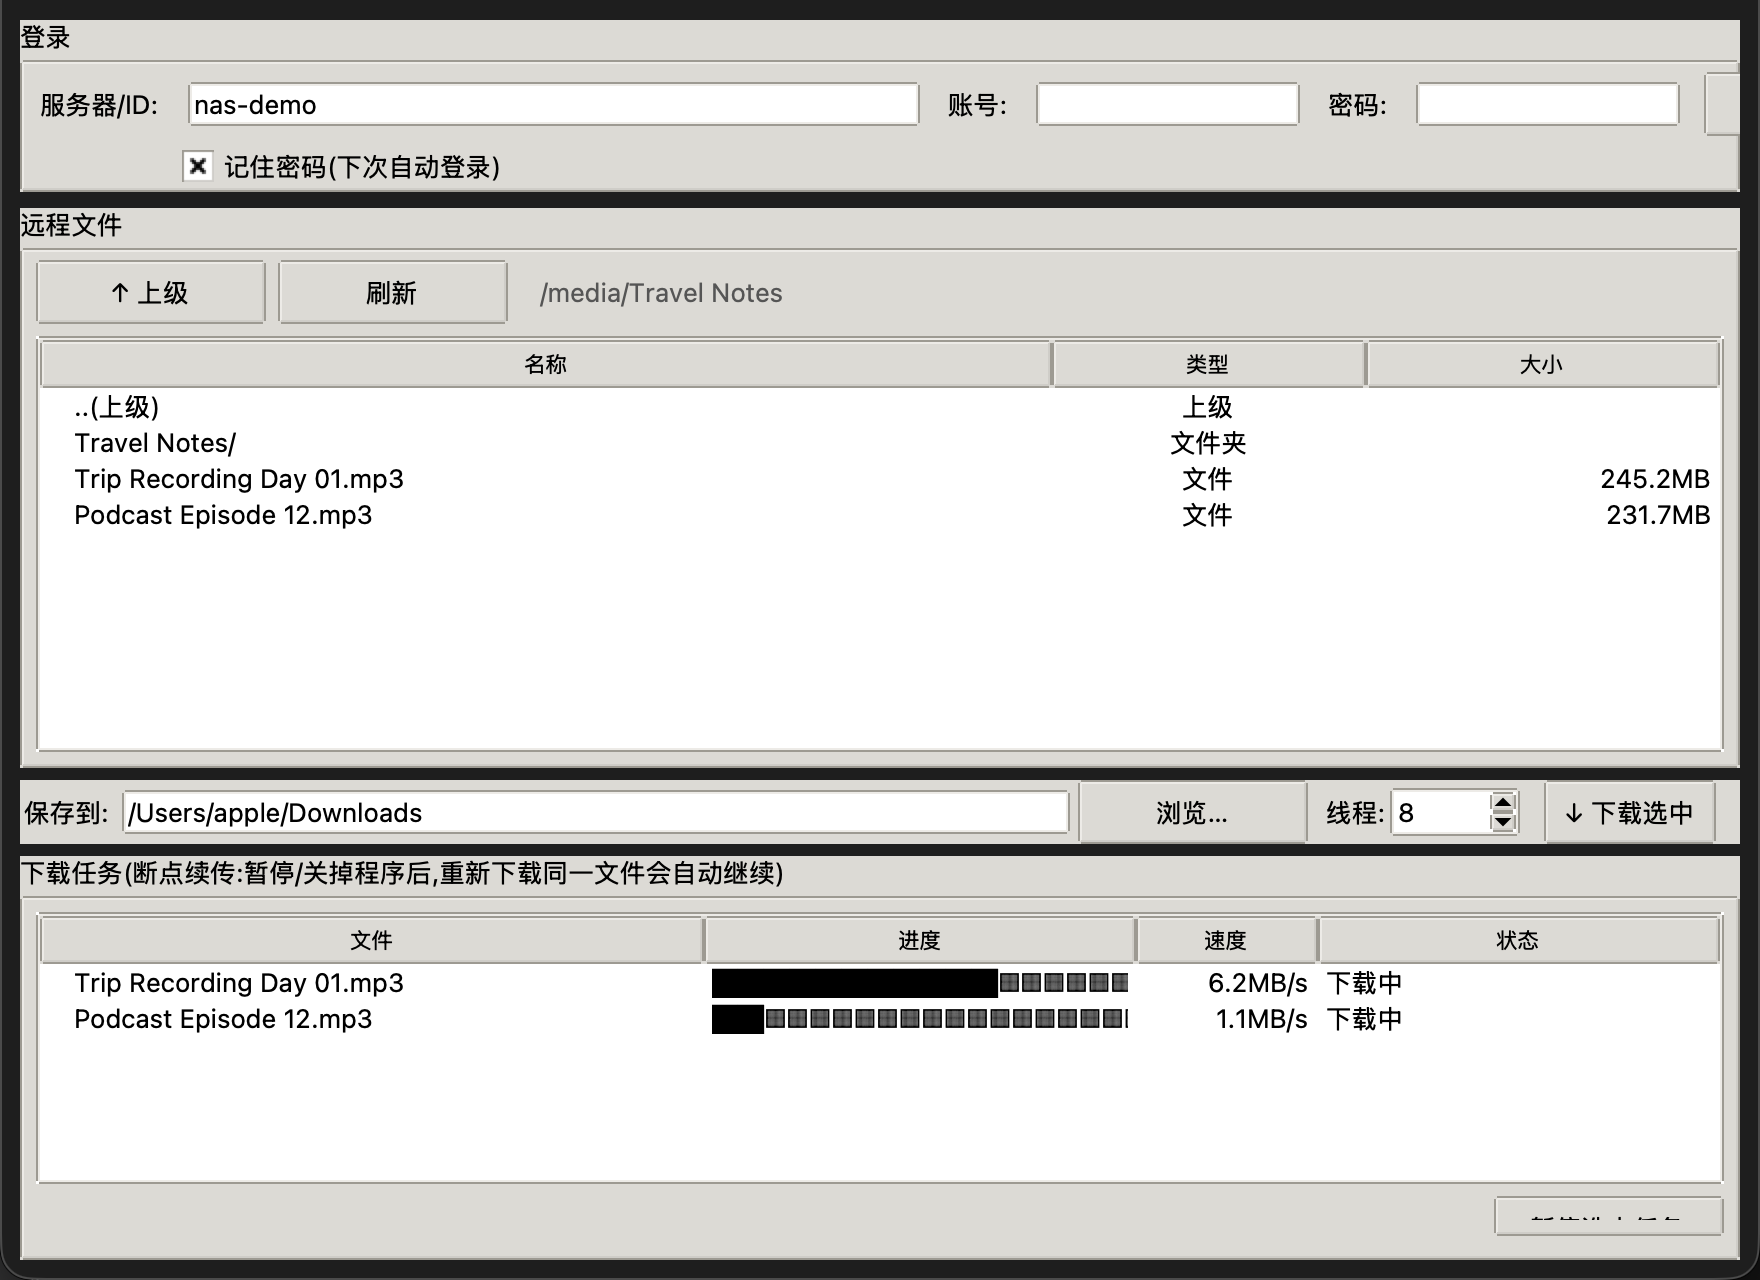
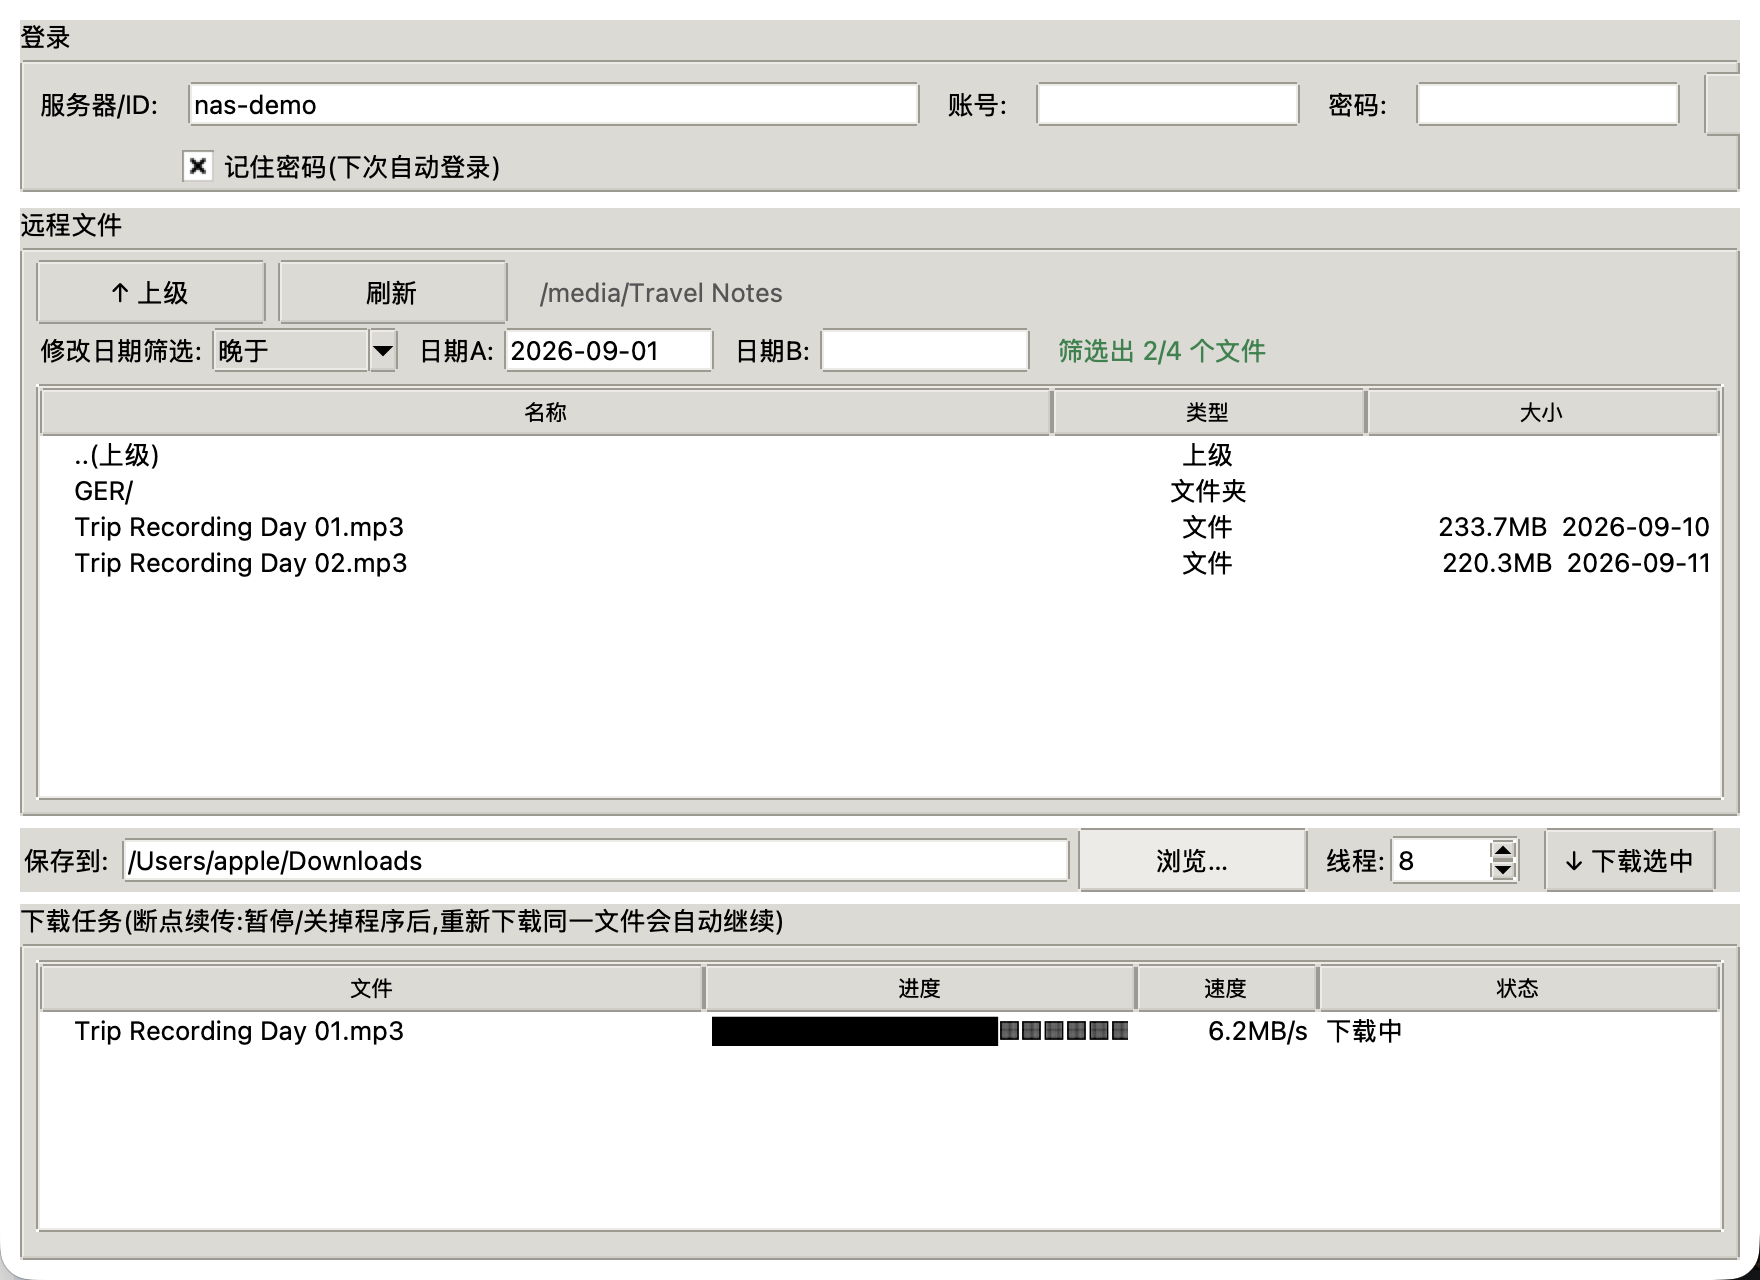
feat: 文件浏览支持修改日期筛选(早于/晚于/介于)

Changed region(s): [[0.0, 0.0, 1.0, 1.0]]

diff --git a/syn_dl_gui.py b/syn_dl_gui.py
@@ -11,6 +11,7 @@ import queue
 import threading
 import time
 import tkinter as tk
+from datetime import date
 from pathlib import Path
 from tkinter import ttk, filedialog, messagebox, simpledialog
 
@@ -160,6 +161,29 @@ class App:
         self.btn_refresh.pack(side="left", padx=6)
         self.lbl_path = ttk.Label(bar, text="(登录后显示共享文件夹)", foreground="#555")
         self.lbl_path.pack(side="left", padx=8)
+
+        # —— 日期筛选行 ——
+        fbar = ttk.Frame(browse)
+        fbar.pack(fill="x", padx=6, pady=(2, 0))
+        ttk.Label(fbar, text="修改日期筛选:").pack(side="left")
+        self.var_fmode = tk.StringVar(value="全部")
+        self.cmb_fmode = ttk.Combobox(
+            fbar, textvariable=self.var_fmode, state="readonly", width=8,
+            values=("全部", "早于", "晚于", "介于"))
+        self.cmb_fmode.pack(side="left", padx=(2, 8))
+        ttk.Label(fbar, text="日期A:").pack(side="left")
+        self.var_fdate_a = tk.StringVar()
+        e_a = ttk.Entry(fbar, textvariable=self.var_fdate_a, width=11)
+        e_a.pack(side="left", padx=(2, 8))
+        ttk.Label(fbar, text="日期B:").pack(side="left")
+        self.var_fdate_b = tk.StringVar()
+        e_b = ttk.Entry(fbar, textvariable=self.var_fdate_b, width=11)
+        e_b.pack(side="left", padx=2)
+        self.lbl_fhint = ttk.Label(fbar, text="格式 YYYY-MM-DD", foreground="#888")
+        self.lbl_fhint.pack(side="left", padx=10)
+        self.cmb_fmode.bind("<<ComboboxSelected>>", lambda _e: self._render_tree())
+        for ent in (e_a, e_b):
+            ent.bind("<KeyRelease>", lambda _e: self._render_tree())
 
         cols = ("type", "size")
         self.tree = ttk.Treeview(browse, columns=cols, selectmode="extended")
@@ -406,15 +430,81 @@ class App:
         self.cwd = path
         self.entries = entries
         self.lbl_path.config(text=path)
+        self._render_tree()
+
+    # ---------------------------------------------------------------- 日期筛选与渲染
+    def _render_tree(self):
+        """按当前筛选条件把 self.entries 渲染到浏览表(iid → entry 映射)。"""
         self.tree.delete(*self.tree.get_children())
-        if path != "/":
+        self._row_entry = {}
+        if getattr(self, "cwd", "/") != "/":
             self.tree.insert("", "end", iid="up", text="..(上级)", values=("上级", ""))
-        for e in entries:
+
+        mode = self.var_fmode.get()
+        start = end = None
+        hint = ""
+        if mode != "全部":
+            start = self._parse_date(self.var_fdate_a.get())
+            end = self._parse_date(self.var_fdate_b.get()) if mode == "介于" else None
+            if mode == "介于":
+                if start is None or end is None:
+                    hint = "请输入有效的日期A和日期B"
+                elif start > end:
+                    hint = "日期A晚于日期B,已自动交换"
+                    start, end = end, start
+            elif start is None:
+                hint = "请输入有效的日期A"
+        if hint.startswith("请输入"):
+            mode = "全部"   # 日期无效时不做筛选,仅显示提示
+
+        shown = total = 0
+        for e in self.entries:
+            keep = True
+            if not e["isdir"]:
+                total += 1
+                keep = self._match_date(e.get("mtime"), mode, start, end)
+                if keep:
+                    shown += 1
+            if not keep:
+                continue
             name = e["name"] + ("/" if e["isdir"] else "")
             size = human(e["size"]) if e.get("size") else ""
-            self.tree.insert("", "end",
-                             values=("文件夹" if e["isdir"] else "文件", size),
-                             text=name, tags=("dir",) if e["isdir"] else ("file",))
+            mtime = date.fromtimestamp(e["mtime"]).isoformat() if e.get("mtime") else ""
+            iid = self.tree.insert(
+                "", "end", values=("文件夹" if e["isdir"] else "文件",
+                                   f"{size}  {mtime}" if mtime else size),
+                text=name)
+            self._row_entry[iid] = e
+
+        if hint:
+            color = "#c0392b" if hint.startswith("请输入") else "#888"
+            self.lbl_fhint.config(text=hint, foreground=color)
+        elif mode == "全部":
+            self.lbl_fhint.config(text="格式 YYYY-MM-DD", foreground="#888")
+        else:
+            self.lbl_fhint.config(text=f"筛选出 {shown}/{total} 个文件",
+                                  foreground="#1e8449")
+
+    @staticmethod
+    def _parse_date(s):
+        try:
+            return date.fromisoformat(s.strip())
+        except Exception:
+            return None
+
+    @staticmethod
+    def _match_date(mtime, mode, start, end):
+        if mode == "全部" or not mtime:
+            return True
+        try:
+            d = date.fromtimestamp(mtime)
+        except Exception:
+            return True
+        if mode == "早于":
+            return d < start
+        if mode == "晚于":
+            return d > start
+        return start <= d <= end   # 介于(含两端)
 
     def refresh_dir(self):
         self.load_dir(getattr(self, "cwd", "/"))
@@ -433,7 +523,9 @@ class App:
         if iid == "up":
             self.go_up()
             return
-        entry = self.entries[self.tree.index(iid) - (1 if self.cwd != "/" else 0)]
+        entry = getattr(self, "_row_entry", {}).get(iid)
+        if not entry:
+            return
         if entry["isdir"]:
             self.load_dir(entry["path"])
         else:
@@ -451,8 +543,8 @@ class App:
         for iid in sel:
             if iid == "up":
                 continue
-            entry = self.entries[self.tree.index(iid) - (1 if self.cwd != "/" else 0)]
-            if not entry["isdir"]:
+            entry = getattr(self, "_row_entry", {}).get(iid)
+            if entry and not entry["isdir"]:
                 paths.append(entry)
         if not paths:
             messagebox.showinfo("提示", "请先选中要下载的文件(可按住 Ctrl/Cmd 多选)")

diff --git a/test_gui.py b/test_gui.py
@@ -80,8 +80,58 @@ def main():
         assert pump(root, 10, lambda: getattr(app, "cwd", "") == "/media"), \
             "进入目录超时"
         texts = {app.tree.item(i)["text"]: i for i in app.tree.get_children()}
-        mp3_row = texts["Trip Recording Day 01.mp3"]
+        assert "Trip Recording Day 01.mp3" in texts
         print("[gui] 浏览 /media ✔ 找到目标文件")
+
+        # 3.5) 修改日期筛选(mock 文件日期:2025-12-31 / 2026-08-01 /
+        #      2026-09-10 / 2026-12-25)
+        def visible():
+            return {app.tree.item(i)["text"] for i in app.tree.get_children()}
+
+        app.var_fmode.set("早于")
+        app.var_fdate_a.set("2026-01-01")
+        app._render_tree()
+        v = visible()
+        assert "Old Notes 2025.txt" in v and "Trip Recording Day 01.mp3" not in v
+        assert "readme.txt" not in v and "Future Plan.txt" not in v
+        assert "Travel Notes/" in v, "目录不应被筛选掉"
+
+        app.var_fmode.set("晚于")
+        app.var_fdate_a.set("2026-09-01")
+        app._render_tree()
+        v = visible()
+        assert {"Trip Recording Day 01.mp3", "Future Plan.txt"} <= v
+        assert "readme.txt" not in v and "Old Notes 2025.txt" not in v
+
+        app.var_fmode.set("介于")
+        app.var_fdate_a.set("2026-07-01")
+        app.var_fdate_b.set("2026-09-30")
+        app._render_tree()
+        v = visible()
+        assert {"readme.txt", "Trip Recording Day 01.mp3"} <= v
+        assert "Old Notes 2025.txt" not in v and "Future Plan.txt" not in v
+        assert "筛选出 2/4" in app.lbl_fhint.cget("text"), app.lbl_fhint.cget("text")
+
+        # 日期 A>B 自动交换
+        app.var_fdate_a.set("2026-09-30")
+        app.var_fdate_b.set("2026-07-01")
+        app._render_tree()
+        assert "Trip Recording Day 01.mp3" in visible()
+
+        # 无效日期提示
+        app.var_fmode.set("早于")
+        app.var_fdate_a.set("not-a-date")
+        app._render_tree()
+        assert "请输入有效的日期A" in app.lbl_fhint.cget("text")
+
+        # 复原:全部
+        app.var_fmode.set("全部")
+        app._render_tree()
+        assert len([i for i in app.tree.get_children()
+                    if i != "up"]) == 5, "全部模式下应有 5 项"
+        texts = {app.tree.item(i)["text"]: i for i in app.tree.get_children()}
+        mp3_row = texts["Trip Recording Day 01.mp3"]
+        print("[gui] 修改日期筛选(早于/晚于/介于/边界)✔")
 
         # 4) 选中并下载
         app.tree.selection_set(mp3_row)

diff --git a/test_e2e.py b/test_e2e.py
@@ -22,6 +22,12 @@ GOOD_SID = "test-sid-12345"
 REMOTE_PATH = "/media/Travel Notes/Trip Recording Day 01.mp3"
 
 
+def _ts(y, m, d):
+    """指定日期正午(UTC)的 unix 时间戳,用作 mock 修改时间。"""
+    import calendar
+    return calendar.timegm((y, m, d, 12, 0, 0))
+
+
 class Handler(BaseHTTPRequestHandler):
     def _json(self, obj):
         body = json.dumps(obj).encode()
@@ -60,10 +66,14 @@ class Handler(BaseHTTPRequestHandler):
             return self._json({"success": True, "data": {"files": [
                 {"name": "Travel Notes", "path": f"{folder}/Travel Notes", "isdir": True},
                 {"name": "readme.txt", "path": f"{folder}/readme.txt", "isdir": False,
-                 "additional": {"size": 5}},
+                 "additional": {"size": 5, "time": _ts(2026, 8, 1)}},
                 {"name": "Trip Recording Day 01.mp3",
                  "path": REMOTE_PATH, "isdir": False,
-                 "additional": {"size": SIZE}}]}})
+                 "additional": {"size": SIZE, "time": _ts(2026, 9, 10)}},
+                {"name": "Old Notes 2025.txt", "path": f"{folder}/Old Notes 2025.txt",
+                 "isdir": False, "additional": {"size": 9, "time": _ts(2025, 12, 31)}},
+                {"name": "Future Plan.txt", "path": f"{folder}/Future Plan.txt",
+                 "isdir": False, "additional": {"size": 3, "time": _ts(2026, 12, 25)}}]}})
 
         if api == "SYNO.FileStation.Download":
             path = json.loads(q.get("path", ['""'])[0])

diff --git a/syn_dl.py b/syn_dl.py
@@ -238,9 +238,11 @@ class SynClient:
                           "sort_direction": "asc"})
         out = []
         for f in data.get("files", []):
+            add = f.get("additional", {})
             out.append({"name": f.get("name", ""), "path": f["path"],
                         "isdir": bool(f.get("isdir")),
-                        "size": f.get("additional", {}).get("size")})
+                        "size": add.get("size"),
+                        "mtime": add.get("time")})   # 修改时间(unix 秒)
         return out
 
     def open_download(self, path, extra_headers=None):

diff --git a/README.md b/README.md
@@ -53,6 +53,7 @@ git tag v0.x.y && git push --tags     # CI 自动:测试 → 双平台打包 →
 - **断点续传**:暂停、断网、关机都不要紧,重新下载同一文件自动从断点继续
 - **自动重试与重登**:分块失败指数退避重试;DSM 会话失效自动重新登录续传
 - **浏览**:双击进入目录,双击文件即下载,支持多选
+- **修改日期筛选**:全部 / 早于日期A / 晚于日期A / 介于A–B(含两端,目录不受筛选影响)
 
 ## 从源码运行(开发/进阶)
 
